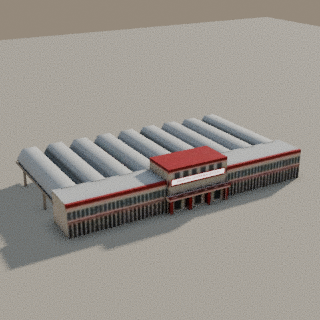
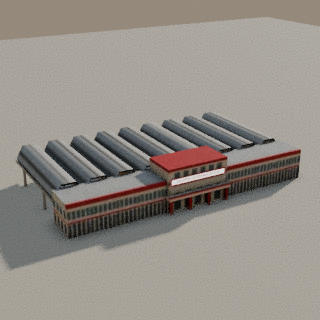
Landmarks (Blender): parked city set — RTC X Roads cinemas (Sandhya, Odeon, Sudarshan, Devi), Gokul Chat, Paradise, Secunderabad clock tower, Koti bus stand, MGBS (gated, not packed)
Claude-Session: https://claude.ai/code/session_01619dqqNeTEBSYCYAx3TzBc

diff --git a/nostalgia/tools/blender/_lm_city.py b/nostalgia/tools/blender/_lm_city.py
@@ -738,8 +738,6 @@ def build_odeon(A):
     lo.append(plan_shell('s_canopy', round_front(-17.1, 17.1, -31.1, -26.0, 4.0, 2), 9.5, 12.1, bottom=True))
     uv_mq = sh.put(marquee_cv(40, pw=384, ph=16, rows=1))
     sh.strip(uv_mq, offset_pts(cpts[1:-1], 0.2), 9.7, 11.3)
-    for x in (24.0, -36.0):
-        pass
     sh.quad(uv_tix, 9.0, 1.6, (26.2, yf - 0.1, 8.4))
     # steps
     P.append(L.steps('steps', 30, 1.2, 0.45, 4, (0, -29.6, 0), stone))
@@ -1178,7 +1176,6 @@ def bus_mats(tag, livery=('#b22b2b', '#e4dccb')):
     s.rect(0, 0.0, 1, 0.12, '#2a2a2a')
     s.rect(0, 0.46, 1, 0.56, livery[1])
     s.rect(0, 0.92, 1, 1.0, livery[1])
-    s.grid = None
     for i in range(10):
         x = 0.02 + (i + 0.5) * 0.096
         s.rect(x - 0.04, 0.58, x + 0.04, 0.9, '#26323a')
@@ -1307,17 +1304,29 @@ def build_mgbs(A):
     behind it the platform halls under the row of repeated concrete vault shells on columns,
     whose arched ends rise over the block; platforms with kerbs and long-distance buses."""
     C._ASSET[0] = A.id
-    CREAM = '#e8e0d0'
+    CREAM = '#d8cdb4'
     cream = lin_mat('mgbs_cream', CREAM)
     red = lin_mat('mgbs_red', '#b22b2b')
-    conc = lin_mat('mgbs_conc', '#b7b2a8', 0.9)
-    shell = lin_mat('mgbs_shell', '#cdc8bd', 0.9)
-    under = lin_mat('mgbs_under', '#a9a49a', 0.9)
+    conc = lin_mat('mgbs_conc', '#a8a398', 0.9)
+    shell = L.paint('#a7a297', 'mgbs_shell', rough=0.9, grime=0.6, streaks=0.5, dirt='#5f594f')
+    under = lin_mat('mgbs_under', '#8e897f', 0.9)
     P, lo = [], []
     sh = Sheet(A.id, 512, 96)
     FY = -54.0
     # entrance block
-    P.append(B('block', -100, 100, FY, -28, 0, 22, cream))
+    def side_fac(w, seed):
+        f = Fac(w, 22, CREAM, seed=seed, noise=0.0)
+        f.dirt(2.5, alpha=0.3).band(10.4, 11.2, '#b22b2b')
+        n = max(1, int(w / 6))
+        for i in range(n):
+            x = (i + 0.5) * w / n
+            f.rect(x - 1.6, 2.0, x + 1.6, 8.6, '#3a3f44').rect(x - 1.8, 13.0, x + 1.8, 18.6, '#56666e')
+        rng = np.random.default_rng(seed)
+        for _ in range(int(w / 2)):
+            x = rng.random() * w
+            f.rect(x, 6 + rng.random() * 10, x + 0.5, 21.5, '#000000', 0.06)
+        return f
+    P.append(fbox('block', 0, (FY - 28) / 2, 200, -28 - FY, 0, 22, cream, faces={'l': side_fac(26, 3), 'r': side_fac(26, 4), 'b': side_fac(200, 5)}))
     P.append(B('roof', -100, 100, FY + 1, -28, 22, 22.6, shell))
     P.append(B('parapet', -101, 101, FY - 0.6, FY + 1.0, 21.6, 24.4, red))
     lo.append(S('s_block', -100.1, 100.1, FY - 0.7, -28, 0, 24.5))
@@ -1362,7 +1371,7 @@ def build_mgbs(A):
     # platform halls: repeated concrete vault shells (along Y) on valley beams and columns
     NV, X0, X1, Y0, Y1 = 9, -99.0, 99.0, -29.0, 58.0
     vw = (X1 - X0) / NV
-    spring, rise, t = 16.0, 9.0, 0.8
+    spring, rise, t = 17.0, 11.0, 0.8
     for i in range(NV):
         cx = X0 + vw * (i + 0.5)
         outer, inner = [], []
@@ -1381,18 +1390,18 @@ def build_mgbs(A):
         lo.append(vault_lo('s_vault', [(x, z + 0.1) for (x, z) in outer[::2]], [(x, z - 0.35) for (x, z) in inner[::2]], Y0 - 0.1, Y1 + 0.1))
     for i in range(NV + 1):
         x = X0 + vw * i
-        P.append(B('beam', x - 1.0, x + 1.0, Y0, Y1, 14.0, spring + 0.2, conc))
-        lo.append(vault_lo('s_beam', [], [(x - 1.15, spring + 0.3), (x - 1.15, 13.9), (x + 1.15, 13.9), (x + 1.15, spring + 0.3)], Y0 - 0.1, Y1 + 0.1))
+        P.append(B('beam', x - 1.0, x + 1.0, Y0, Y1, 15.0, spring + 0.2, conc))
+        lo.append(vault_lo('s_beam', [], [(x - 1.15, spring + 0.3), (x - 1.15, 14.9), (x + 1.15, 14.9), (x + 1.15, spring + 0.3)], Y0 - 0.1, Y1 + 0.1))
         for y in (-6.0, 40.0):
-            P.append(B('col', x - 0.8, x + 0.8, y - 0.8, y + 0.8, 0, 14.0, conc))
-            lo.append(tri_col('s_col', x, y, 1.25, 0.0, 14.0))
+            P.append(B('col', x - 0.8, x + 0.8, y - 0.8, y + 0.8, 0, 15.0, conc))
+            lo.append(tri_col('s_col', x, y, 1.25, 0.0, 15.0))
     # platforms between the bays + strip lights
     for x in (-66, 0, 66):
         P.append(B('plat', x - 7, x + 7, -26, 56, 0, 1.3, conc))
         P.append(B('plat_k', x - 7.2, x + 7.2, -26.2, 56.2, 0, 0.5, lin_mat('mgbs_kerb', '#d8d2c2')))
         lo.append(S('s_plat', x - 7.3, x + 7.3, -26.3, 56.3, 0, 1.4))
         for y in np.arange(-20, 52, 14.0):
-            sh.quad(uv_t, 0.6, 5.0, (x, y, 13.9), tilt=-PI / 2, uvq=((uv_t[0], uv_t[1]), (uv_t[0], uv_t[3]), (uv_t[2], uv_t[3]), (uv_t[2], uv_t[1])))
+            sh.quad(uv_t, 0.6, 5.0, (x, y, 14.9), tilt=-PI / 2, uvq=((uv_t[0], uv_t[1]), (uv_t[0], uv_t[3]), (uv_t[2], uv_t[3]), (uv_t[2], uv_t[1])))
     # route boards on the platforms' first column row
     rb = Canvas(256, 24, '#1d3f8a')
     for i, t_ in enumerate(('KURNOOL', 'WARANGAL', 'TIRUPATI', 'VIJAYAWADA')):
@@ -1406,7 +1415,7 @@ def build_mgbs(A):
     side2, front2 = bus_mats('mgbs2', ('#e8ecf0', '#2a5cb8'))
     bus(P, lo, 'bus1', -33, 22, 0, side, front, red)
     bus(P, lo, 'bus2', 33, 26, 0, side2, front2, lin_mat('mgbs_lux', '#e8ecf0'))
-    finish(A, P, lo, sh, 384, ao=8.0)
+    finish(A, P, lo, sh, 352, ao=8.0)
     L.col_box('mgbs_block', (200, 26, 22), (0, -41, 0))
     L.shots(A, az=-30, el=22, extra=[{'name': 'halls', 'view': {'az': 150, 'el': 18, 'fov': 32, 'pad': 1.05}}])
 
